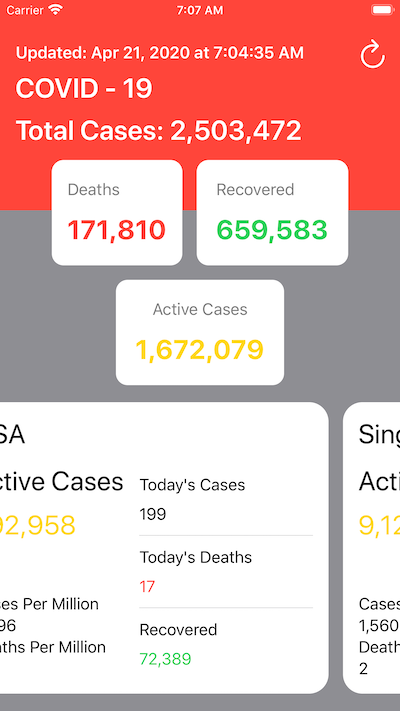
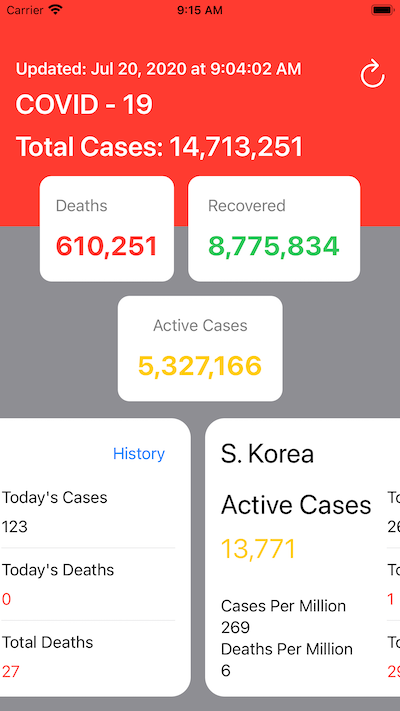
Added History view

diff --git a/COVID/HistoryView.swift b/COVID/HistoryView.swift
@@ -1,0 +1,118 @@
+//
+//  HistoryView.swift
+//  COVID
+//
+//  Created by Gary on 7/19/20.
+//  Copyright © 2020 Gary Hanson. All rights reserved.
+//
+
+import SwiftUI
+
+struct HistoryView: View {
+    let countryCode: String
+    @Environment (\.presentationMode) var presentationMode
+    @ObservedObject var data = HistoryViewModel()
+
+    var body: some View {
+        ZStack {
+            Color.black
+                .edgesIgnoringSafeArea(/*@START_MENU_TOKEN@*/.all/*@END_MENU_TOKEN@*/)
+            VStack {
+                Text("Total Cases").font(.headline)
+                VStack {
+                    HStack {
+                        VStack {
+                            Text(String(formattedCountString(from: data.caseTotals.max()!)))
+                                .font(.footnote)
+                            Spacer()
+                            Text(String(formattedCountString(from: data.caseTotals.min()!)))
+                                .font(.footnote)
+                       }
+                        ChartView(data: data.caseTotals, lineColor: .yellow)
+                        .frame(minHeight: 0, maxHeight: .infinity)
+                        .border(Color.blue, width: 2)
+                    }
+                }
+                .frame(width: 320, height: 120.0)
+                .padding(.bottom, 40)
+               Text("Total Deaths").font(.headline)
+                VStack {
+                    HStack {
+                        VStack {
+                            Text(String(formattedCountString(from: data.deathTotals.max()!)))
+                                .font(.footnote)
+                            Spacer()
+                            Text(String(formattedCountString(from: data.deathTotals.min()!)))
+                                .font(.footnote)
+                       }
+                        ChartView(data: data.deathTotals, lineColor: .red)
+                        .frame(minHeight: 0, maxHeight: .infinity)
+                        .border(Color.blue, width: 2)
+                    }
+                }
+                .frame(width: 320, height: 120.0)
+                .padding(.bottom, 30)
+                Text("Since " + startDateString())
+    //            Spacer()
+    //            VStack(spacing: 20) {
+    //                Text("Close")
+    //                    .onTapGesture {
+    //                        // Dismissing programmatically, instead of using the gesture,
+    //                        // will not trigger the onDismiss callback
+    //                        // If you need to perform a task on dismissal, do it here.
+    //                        self.presentationMode.wrappedValue.dismiss()
+    //                }
+    //                .padding(.bottom, 10)
+    //            }
+            }
+            .frame(width: 380)
+            .foregroundColor(.white)
+        }
+        .onAppear {
+            self.data.updateData(for: self.countryCode, daysBack: daysToChart())
+        }
+    }
+}
+
+
+// Picking March 1, 2020 as the start date because that is when cases and deaths started climbing in the US. Pick your own starting date.
+fileprivate let startDate = "2020-03-01"
+
+
+fileprivate func startDateString() -> String {
+    let dateFormatter = DateFormatter()
+
+    dateFormatter.dateFormat = "yyyy-MM-dd"
+    let start = dateFormatter.date(from: startDate)!
+
+    let formatter = DateFormatter()
+    formatter.dateStyle = .long
+
+    return formatter.string(from: start)
+}
+
+fileprivate func daysToChart() -> Int {
+    let previousDate = startDate
+    let currentDate = Date()
+    let dateFormatter = DateFormatter()
+    dateFormatter.dateFormat = "yyyy-MM-dd"
+    let previousDateFormated: Date? = dateFormatter.date(from: previousDate)
+    let difference = currentDate.timeIntervalSince(previousDateFormated!)
+    let differenceInDays = Int(difference/(60 * 60 * 24 ))
+
+    return differenceInDays
+}
+
+fileprivate func formattedCountString(from count: Int) -> String {
+    let numberFormatter = NumberFormatter()
+    numberFormatter.numberStyle = .decimal
+
+    return numberFormatter.string(from: NSNumber(value:count))!
+}
+
+struct HistoryView_Previews: PreviewProvider {
+    static var previews: some View {
+        HistoryView(countryCode: "usa")
+    }
+}
+

diff --git a/COVID/HistoryViewModel.swift b/COVID/HistoryViewModel.swift
@@ -1,0 +1,98 @@
+//
+//  HistoryViewModel.swift
+//  COVID
+//
+//  Created by Gary on 7/20/20.
+//  Copyright © 2020 Gary Hanson. All rights reserved.
+//
+
+import Foundation
+
+
+struct Timeline: Decodable {
+    var cases: [String: Int]?
+    var deaths: [String: Int]?
+}
+
+struct History : Decodable {
+    var country: String?
+    var timeline: Timeline?
+}
+
+class HistoryViewModel : ObservableObject {
+    @Published var data = History()
+    var caseTotals = [0, 1]
+    var deathTotals = [0, 1]
+
+    func updateData(for country: String, daysBack: Int) {
+
+        let config = URLSessionConfiguration.default
+        config.requestCachePolicy = .reloadIgnoringLocalCacheData
+        config.urlCache = nil
+        let sessionTotals = URLSession(configuration: config)
+
+        sessionTotals.dataTask(with: .history(for: country, daysBack: daysBack)) { (data, _, err) in
+
+            if err != nil {
+                print((err?.localizedDescription)!)
+                return
+            }
+
+            let json = try! JSONDecoder().decode(History.self, from: data!)
+            DispatchQueue.main.async {
+                self.data = json
+                self.caseTotals = self.cases()
+                self.deathTotals = self.deaths()
+            }
+        }.resume()
+    }
+
+    // cases and deaths come as dictionaries [dateString: count]. They are in date order in the json,
+    // but dictionaries are not ordered, so the order becomes random. Not what we need.
+    // these functions create date-ordered arrays of the counts because the charts just plot the count and don't need the dates
+
+    private func cases() -> [Int] {
+        guard let dataCases = self.data.timeline?.cases else {
+            return [1]
+        }
+
+        var a = [(Date, Int)]()
+        let dateFormatter = DateFormatter()
+        dateFormatter.dateFormat = "MM/dd/yy"
+        for (k,v) in dataCases {
+            a.append((dateFormatter.date(from: k)!, v))
+        }
+        a.sort {
+            $0.0 < $1.0
+        }
+
+        var b = [Int]()
+        for (_,c) in a {
+            b.append(c)
+        }
+        return b
+    }
+
+    private func deaths() -> [Int] {
+        guard let dataDeaths = self.data.timeline?.deaths else {
+            return [1]
+        }
+        var a = [(Date, Int)]()
+        let dateFormatter = DateFormatter()
+        dateFormatter.dateFormat = "MM/dd/yy"
+        for (k,v) in dataDeaths {
+            a.append((dateFormatter.date(from: k)!, v))
+        }
+        a.sort {
+            $0.0 < $1.0
+        }
+
+        var b = [Int]()
+        for (_,c) in a {
+            b.append(c)
+        }
+
+        return b
+    }
+
+}

diff --git a/COVID/ViewModel.swift b/COVID/ViewModel.swift
@@ -48,6 +48,14 @@ struct Details : Decodable, Hashable {
     var casesPerOneMillion: Double
     var deathsPerOneMillion: Double
 
+    var countryCode: String {
+        if let key = countryCodes.first(where: { $0.value == self.country })?.key {
+            return String(key)
+        }
+
+        return ""
+    }
+
     var todaysCasesString: String {
         getIntString(data: todayCases)
     }
@@ -79,7 +87,7 @@ struct Details : Decodable, Hashable {
 }
 
 
-class Model : ObservableObject {
+class ViewModel : ObservableObject {
     @Published var data: Case!
     @Published var countries = [Details]()
 
@@ -160,6 +168,10 @@ fileprivate func getIntString(data: Int?) -> String {
     return format.string(for: data)!
 }
 
+fileprivate let countryCodes = [ "usa": "USA", "kr": "S. Korea", "singapore": "Singapore", "taiwan": "Taiwan", "china": "China", "brazil": "Brazil", "spain": "Spain", "sweden": "Sweden"]
+
+fileprivate let codes = countryCodes.keys
+fileprivate let countryCodeList = codes.joined(separator: ",")
 
 extension URL {
     fileprivate static var summaryData: URL {
@@ -168,10 +180,14 @@ extension URL {
     }
 
     fileprivate static var countriesDetail: URL {
-        URL(string: "https://corona.lmao.ninja/v2/countries/usa,kr,singapore,taiwan,china,brazil,spain,sweden")!
+        URL(string: "https://corona.lmao.ninja/v2/countries/\(countryCodeList)")!
     }
 
     fileprivate static func detail(for country: String) -> URL {
         URL(string: "https://corona.lmao.ninja/countries/\(country)")!
+    }
+
+    static func history(for country: String, daysBack: Int) -> URL {
+        URL(string: "https://disease.sh/v3/covid-19/historical/\(country)?lastdays=\(daysBack)")!
     }
 }

diff --git a/COVID/ChartView.swift b/COVID/ChartView.swift
@@ -1,0 +1,50 @@
+//
+//  ChartView.swift
+//  COVID
+//
+//  Created by Gary on 7/20/20.
+//  Copyright © 2020 Gary Hanson. All rights reserved.
+//
+
+import SwiftUI
+
+
+struct ChartView: View {
+    let data: [Int]
+    let lineColor: Color
+
+    var body: some View {
+        GraphView(data: data)
+            .stroke(lineColor, lineWidth: 1)
+
+    }
+}
+
+struct GraphView: Shape {
+    let data: [Int]
+
+    func path(in bounds: CGRect) -> Path {
+        let dataValues = data
+        let dataMax = dataValues.max()!
+        let dataMin = dataValues.min()!
+        let dataRange = CGFloat(dataMax - dataMin)
+        var xPos: CGFloat = 10
+        let increment: CGFloat = (bounds.width - 20) / (CGFloat(data.count) - 1)
+        let yRange = bounds.height - 14
+
+        var path = Path()
+
+        for index in (0..<dataValues.count) {
+            let v = CGFloat(dataValues[index] - dataMin)
+            let yPos = CGFloat(v / dataRange) * yRange + 8
+            if index == 0 {
+                path.move(to: CGPoint(x: xPos, y: bounds.height - yPos))
+            } else {
+                path.addLine(to: CGPoint(x: xPos, y: bounds.height - yPos))
+            }
+            xPos += increment
+        }
+
+        return path
+    }
+}

diff --git a/COVID/CellView.swift b/COVID/CellView.swift
@@ -11,14 +11,25 @@ import SwiftUI
 
 struct cellView : View {
     var details: Details
+    @State private var show: Bool = false
 
     var body : some View {
 
         VStack(alignment: .leading, spacing: 15) {
 
-            Text(details.country)
-                .foregroundColor(.black)
-                .font(.title)
+            HStack {
+                Text(details.country)
+                    .foregroundColor(.black)
+                    .font(.title)
+                Spacer()
+                Button("History") {
+                    self.show = true
+                }
+                .padding(10).border(show ? Color.red : Color.clear)
+                .sheet(isPresented: $show,
+                       onDismiss: { },
+                       content: { HistoryView(countryCode: details.countryCode) })
+            }
 
             HStack(spacing: 15) {
 

diff --git a/COVID/ContentView.swift b/COVID/ContentView.swift
@@ -25,7 +25,7 @@ struct ContentView_Previews: PreviewProvider {
 }
 
 struct Home: View {
-    @ObservedObject var data = Model()
+    @ObservedObject var data = ViewModel()
     
     var body : some View {
         VStack {

diff --git a/README.md b/README.md
@@ -1,10 +1,12 @@
 # COVID
 
-COVID is an iOS app written with SwiftUI. It tracks the current worldwide status of the COVID-19 pandemic. The idea and UI were mostly taken from a Kavsoft video (https://www.youtube.com/watch?v=UEjiDemnkoI). It also pointed me to the API and I added some additional info and a couple more countries.
+COVID is an iOS app written with SwiftUI. It tracks the current worldwide status of the COVID-19 pandemic. The idea and UI were mostly taken from a Kavsoft video. It also pointed me to the API and I added some additional info and a couple more countries.
+
+Added a history Sheet that shows graphs of the country's total cases and deaths since the virus started spreading worldwide.
 
 
-
-<img src="Screenshot.png">
+<img src="Screenshot.png" style="margin-right: 60px;">
+<img src="Screenshot2.png">
 
 
 ## License
